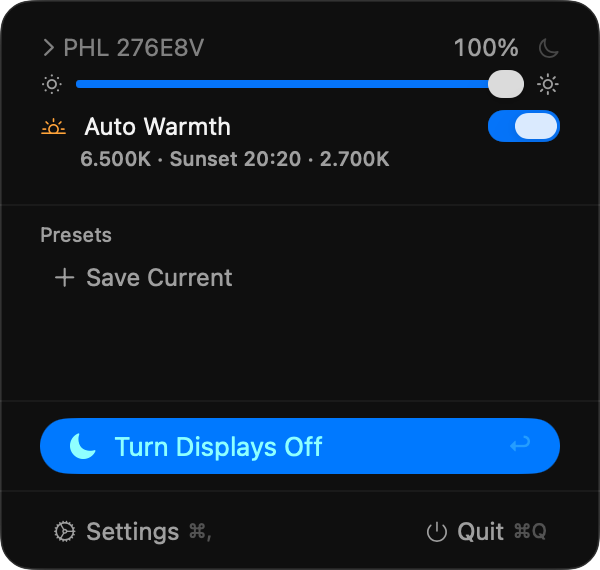
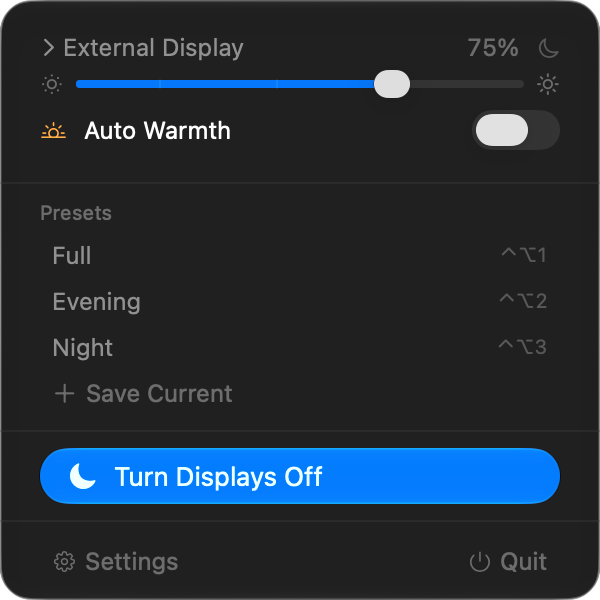
prepare 1.3.0 release and refresh website

diff --git a/documentation/index.html b/documentation/index.html
@@ -76,7 +76,7 @@
             </div>
             <figure class="product-figure">
                 <div class="product-stage">
-                    <img class="screenshot" src="assets/dimmerly-menu.png" width="600" height="570" fetchpriority="high" decoding="async" alt="Dimmerly menu bar panel showing display brightness, automatic warmth, presets, and display sleep controls">
+                    <img class="screenshot" src="assets/dimmerly-menu.png" width="600" height="600" fetchpriority="high" decoding="async" alt="Dimmerly menu bar panel showing display brightness, automatic warmth, presets, and display sleep controls">
                 </div>
             </figure>
         </section>
@@ -94,31 +94,31 @@ brew install --cask dimmerly</code></pre>
 
         <section id="whats-new" class="benefits container" aria-labelledby="whats-new-title">
             <div class="benefits-heading">
-                <h2 id="whats-new-title">What&rsquo;s new in 1.2.0</h2>
-                <p>Find your presets faster, target individual displays, and fine-tune your setup.</p>
-                <p><a class="text-link" href="https://github.com/olujicz/Dimmerly/releases/tag/v1.2.0" data-analytics-event="view_releases">Read the release notes <span aria-hidden="true">→</span></a></p>
-                <p>Upgrading? Existing per-display Shortcuts need their display reselected once. <a class="text-link" href="support.html#shortcuts-upgrade">Follow the upgrade steps <span aria-hidden="true">→</span></a></p>
+                <h2 id="whats-new-title">What&rsquo;s new in 1.3.0</h2>
+                <p>More controls where you need them, with a refreshed native macOS look.</p>
+                <p><a class="text-link" href="https://github.com/olujicz/Dimmerly/blob/main/CHANGELOG.md#130---2026-10-04" data-analytics-event="view_releases">Read the release notes <span aria-hidden="true">→</span></a></p>
+                <p>Upgrading from before 1.2.0? Existing per-display Shortcuts need their display reselected once. <a class="text-link" href="support.html#shortcuts-upgrade">Follow the upgrade steps <span aria-hidden="true">→</span></a></p>
             </div>
             <div class="benefit-list">
                 <article class="benefit">
                     <span class="benefit-number" aria-hidden="true">01</span>
-                    <h3>Find presets in Spotlight</h3>
-                    <p>Search for a saved preset by name, or use the new Open Brightness Preset action in Shortcuts to open it in the menu bar panel.</p>
+                    <h3>Add controls to Control Center</h3>
+                    <p>On macOS 26 and later, add Display Dimming, Auto Warmth, or an Apply Preset button to Control Center or your menu bar.</p>
                 </article>
                 <article class="benefit">
                     <span class="benefit-number" aria-hidden="true">02</span>
-                    <h3>Target individual display controls</h3>
-                    <p>Use Shortcuts and Spotlight to target a display&rsquo;s menu bar controls on macOS 15.4 and later.</p>
+                    <h3>A panel that feels at home</h3>
+                    <p>Native Liquid Glass on macOS 26 and later, sharper menu bar symbols, and tidier controls bring the panel closer to the rest of your Mac.</p>
                 </article>
                 <article class="benefit">
                     <span class="benefit-number" aria-hidden="true">03</span>
-                    <h3>Set familiar slider values</h3>
-                    <p>Snap markers help you select common brightness, warmth, contrast, and volume values.</p>
+                    <h3>Follow your Mac&rsquo;s appearance</h3>
+                    <p>Dark and tinted app icons and adaptive widget buttons fit your system style. A brief checkmark confirms when you apply a preset.</p>
                 </article>
                 <article class="benefit">
                     <span class="benefit-number" aria-hidden="true">04</span>
-                    <h3>See adjustments in the menu bar</h3>
-                    <p>The default sun icon reflects software brightness, warmth, and contrast adjustments. A new Sun (Split) style joins the icon choices.</p>
+                    <h3>Clearer feedback, in your language</h3>
+                    <p>VoiceOver reports display adjustment state, more display-control messages are translated, and widget actions wait for Dimmerly to respond.</p>
                 </article>
             </div>
         </section>
@@ -147,9 +147,22 @@ brew install --cask dimmerly</code></pre>
                 <article class="benefit">
                     <span class="benefit-number" aria-hidden="true">04</span>
                     <h3>Automate the routine</h3>
-                    <p>Use schedules, global shortcuts, desktop widgets, and Shortcuts actions.</p>
+                    <p>Use schedules, global shortcuts, desktop widgets, Shortcuts actions, and Control Center controls.</p>
                 </article>
             </div>
+        </section>
+
+        <section class="settings-showcase container" aria-labelledby="settings-title">
+            <div class="settings-copy">
+                <h2 id="settings-title">Set up the way your displays behave.</h2>
+                <p>Choose display sleep or dim-only mode, set an inactivity timer, and tune automatic warmth in one native Settings window.</p>
+                <p>Hardware controls work where your display and connection support DDC/CI. Otherwise, Dimmerly falls back to software brightness, as shown here.</p>
+                <a class="text-link" href="external-monitor-brightness.html">Understand hardware and software brightness <span aria-hidden="true">→</span></a>
+            </div>
+            <figure class="settings-figure">
+                <img class="settings-screenshot" src="assets/dimmerly-settings.png" width="1160" height="1500" loading="lazy" decoding="async" alt="Dimmerly Displays settings showing sleep and dim modes, inactivity dimming, automatic color temperature, and hardware-control software fallback">
+                <figcaption>Displays settings in the direct-download build.</figcaption>
+            </figure>
         </section>
 
         <section class="guides container" aria-labelledby="guides-title">

diff --git a/documentation/support.html b/documentation/support.html
@@ -105,8 +105,8 @@
             <li>If the shortcut still doesn&rsquo;t work, try changing it in Settings &rsaquo; Shortcuts to avoid conflicts with other apps.</li>
         </ol>
 
-        <h3 id="shortcuts-upgrade">A per-display Shortcuts action stops working after upgrading to 1.2.0</h3>
-        <p>Dimmerly 1.2.0 changes how Shortcuts identifies displays. Existing shortcuts with a specific display selected need that display reselected once after upgrading.</p>
+        <h3 id="shortcuts-upgrade">A per-display Shortcuts action stops working after upgrading from before 1.2.0</h3>
+        <p>Dimmerly 1.2.0 changes how Shortcuts identifies displays. Existing shortcuts with a specific display selected need that display reselected once after upgrading to 1.2.0 or later.</p>
         <ol>
             <li>Connect the display and open Dimmerly.</li>
             <li>Open the affected shortcut in the Shortcuts app.</li>
@@ -114,6 +114,15 @@
             <li>Run the shortcut to confirm it controls the intended display.</li>
         </ol>
         <p>The new identities prevent a shortcut from targeting another monitor when macOS reuses a display ID.</p>
+
+        <h3>Control Center&rsquo;s Display Dimming toggle turns off again</h3>
+        <p>The toggle shows whether Dimmerly is blanking a display. In the direct-download build&rsquo;s Sleep &amp; Lock mode, macOS puts displays to sleep and wakes them on input; the toggle returns to off because Dimmerly has no blanking session to clear. Choose Dim Only in Settings &rsaquo; Displays if you want the toggle to stay on while displays are blanked.</p>
+
+        <h3>A saved App Store shortcut no longer works in 1.3.0</h3>
+        <p>App Store global shortcuts now require at least two modifiers, including Control or Command. Previously saved shortcuts that do not meet this rule are not registered. Reassign them in Settings; for example, use Control&ndash;Option&ndash;1 instead of Command&ndash;1 for a preset. The direct-download build keeps its existing shortcut requirements.</p>
+
+        <h3>A widget or Control Center action does not complete</h3>
+        <p>Dimmerly opens when needed and waits for the app to acknowledge the action. If an error appears, open Dimmerly, check the selected preset still exists, and try again. On macOS 26 and later, add Dimmerly&rsquo;s Dim Displays, Display Dimming, Auto Warmth, and Apply Preset controls in Control Center; Apply Preset asks you to choose a saved preset.</p>
 
         <h3>Brightness slider has no effect</h3>
         <ul>

diff --git a/documentation/multi-monitor-control.html b/documentation/multi-monitor-control.html
@@ -102,8 +102,9 @@
         <section class="guide-section" aria-labelledby="presets-title">
             <h2 id="presets-title">Save routines with presets and schedules</h2>
             <p>Presets save a complete display setup, including brightness, warmth, and contrast for each display. Apply them from the menu bar, a widget, Shortcuts, a schedule, or an optional per-preset keyboard shortcut.</p>
+            <p>On macOS 26 and later, add Display Dimming, Auto Warmth, and Apply Preset controls to Control Center or the menu bar. Choose a saved preset when configuring Apply Preset. The Display Dimming toggle reflects Dimmerly blanking, rather than macOS display sleep.</p>
             <p>Starting with Dimmerly 1.2.0, you can find a saved preset by name in Spotlight. The <strong>Open Brightness Preset</strong> Shortcuts action opens it in the menu bar panel; use <strong>Apply Brightness Preset</strong> to apply its saved display settings. Individual menu bar display controls can also be targeted from Shortcuts and Spotlight on macOS 15.4 and later.</p>
-            <p>If you upgrade to 1.2.0 with existing per-display shortcuts, <a href="support.html#shortcuts-upgrade">reselect their displays once in the Shortcuts app</a>.</p>
+            <p>If you upgrade from before 1.2.0 with existing per-display shortcuts, <a href="support.html#shortcuts-upgrade">reselect their displays once in the Shortcuts app</a>.</p>
             <p>Schedules can run at a fixed time, sunrise, sunset, or with an offset from sunrise or sunset. You can use your current location for the calculation or enter coordinates manually.</p>
             <div class="note">
                 <p><strong>Keep the setup local.</strong> Dimmerly stores presets and schedules on your Mac. The app does not sync them between Macs and does not use analytics or tracking.</p>

diff --git a/documentation/site.css b/documentation/site.css
@@ -337,6 +337,48 @@ p { text-wrap: pretty; }
     filter: drop-shadow(0 18px 26px var(--panel-shadow));
 }
 
+/* Native 2x Settings capture, displayed at no more than its 580-point width. */
+.settings-showcase {
+    display: grid;
+    grid-template-columns: minmax(0, 0.8fr) minmax(0, 1.2fr);
+    gap: 64px;
+    align-items: center;
+    padding-top: 76px;
+    padding-bottom: 76px;
+    border-top: 1px solid var(--line);
+}
+
+.settings-copy p {
+    color: var(--muted);
+    line-height: 1.65;
+}
+
+.settings-figure { margin: 0; }
+
+.settings-screenshot {
+    display: block;
+    width: min(100%, 580px);
+    height: auto;
+    margin-inline: auto;
+    filter: drop-shadow(0 18px 26px var(--panel-shadow));
+}
+
+.settings-figure figcaption {
+    margin-top: 18px;
+    color: var(--muted);
+    font-size: 13px;
+    text-align: center;
+}
+
+@media (max-width: 700px) {
+    .settings-showcase {
+        grid-template-columns: minmax(0, 1fr);
+        gap: 32px;
+        padding-top: 48px;
+        padding-bottom: 48px;
+    }
+}
+
 .install {
     display: grid;
     grid-template-columns: minmax(220px, 0.8fr) minmax(0, 1.2fr);

diff --git a/documentation/RELEASE.md b/documentation/RELEASE.md
@@ -132,6 +132,13 @@ Do not mix feature work into the release-prep PR. Merge it only after CI passes 
 
 ## Release Candidate Build
 
+For **1.3.0 only**, the maintainer has explicitly waived the separate manual
+release-candidate run. Prepare and merge the release changes, then use the
+tag-triggered workflow to build the draft release. Signing, notarization,
+checksum verification, Gatekeeper assessment, clean installation, and final
+manual QA still apply before publication. Other releases keep the normal
+candidate procedure below.
+
 Use the manual workflow first to prove signing, notarization, and packaging before creating a public tag. Run it from the release-prep commit after it is on `main`:
 
 The Release workflow uses GitHub's `xcode-27` Apple silicon runner and explicitly selects released Xcode 27.0 (`27A266a`) for both the quality gate and signed DMG build. The archive uses manual signing with the imported Developer ID Application identity so clean runners do not create disposable Apple Development certificates. Keep these settings aligned with `.github/workflows/release.yml` when upgrading the release environment.
@@ -143,7 +150,7 @@ The Release workflow uses GitHub's `xcode-27` Apple silicon runner and explicitl
 | CI `test` and `build-appstore` | `xcode-27` | 27.0 (`27A266a`, released) |
 | Release quality gate and DMG build | `xcode-27` | 27.0 (`27A266a`, released) |
 
-The runner image remains a GitHub public preview, but the selected Xcode is a released toolchain, not a beta. CI sets `DEVELOPER_DIR` and Release selects `/Applications/Xcode_27.0.app/Contents/Developer`. Both invoke `.github/scripts/verify-xcode.sh`, which rejects any other Xcode version or build, an unrecognized or older Swift compiler, and a macOS SDK older than 27.0. The scope job tests this gate on every CI run.
+The runner image remains a GitHub public preview, but the selected Xcode is a released toolchain, not a beta. CI sets `DEVELOPER_DIR` and Release selects `/Applications/Xcode_27.0.app/Contents/Developer`. The Release quality gate runs both direct-distribution and App Store test suites and the App Store smoke build. Both workflows invoke `.github/scripts/verify-xcode.sh`, which rejects any other Xcode version or build, an unrecognized or older Swift compiler, and a macOS SDK older than 27.0. The scope job tests this gate on every CI run.
 
 Apple lists [Xcode 27 build 27A266a as released on September 14, 2026](https://developer.apple.com/news/releases/). GitHub documents the installed toolchains in its [Xcode 27 runner manifest](https://github.com/actions/runner-images/blob/main/images/macos/xcode-27-arm64-Readme.md). Before changing the pin, verify the replacement is a released Xcode build and update the workflows, gate, tests, and this runbook together.
 
@@ -171,7 +178,7 @@ codesign --verify --deep --strict --verbose=2 /Applications/Dimmerly.app
 
 ## Tag And Draft Release
 
-After the release candidate passes:
+After the release candidate passes (or under the explicit 1.3.0 exception above):
 
 ```bash
 git status --short
@@ -191,7 +198,9 @@ The draft must remain unpublished until final QA is complete.
 
 ## Final QA
 
-Download the DMG from the draft release and repeat the clean install checks. Also verify:
+Download the DMG from the draft release and perform the clean install, checksum,
+Gatekeeper, and signature checks listed above, even when a separate candidate
+was waived. Also verify:
 
 - the draft release notes match `CHANGELOG.md`
 - the DMG filename and checksum contain the intended version
@@ -287,4 +296,4 @@ For urgent regressions:
 5. Add a `CHANGELOG.md` entry under the patch version.
 6. Follow the same release candidate, tag, draft release, final QA, and publish steps.
 
-Skipping the release candidate workflow is only acceptable when the existing release is unsafe to keep available and the fix has already passed local signing/notarization checks.
+Outside the explicit 1.3.0 exception above, skipping the release candidate workflow is only acceptable when the existing release is unsafe to keep available and the fix has already passed local signing/notarization checks.

diff --git a/README.md b/README.md
@@ -25,6 +25,15 @@ brew install --cask dimmerly
 
 ![Dimmerly menu bar panel on macOS](images/image1.png)
 
+## New in 1.3.0
+
+- Display Dimming, Auto Warmth, and configurable Apply Preset controls in Control Center and the menu bar on macOS 26 and later
+- Native Liquid Glass panel and dark and tinted app icons on macOS 26 and later, plus sharper menu bar symbols
+- Widgets that follow the system appearance, clearer preset feedback, and more VoiceOver and localization coverage
+- Reliable widget action delivery and permission-free global shortcuts in the App Store build
+
+See [the 1.3.0 changelog](CHANGELOG.md#130---2026-10-04) for the full release notes.
+
 ## Why Dimmerly?
 
 - Control multiple displays from a single menu bar panel
@@ -39,7 +48,7 @@ brew install --cask dimmerly
 - Global keyboard shortcuts for dimming and presets
 - Schedules based on a fixed time, sunrise, or sunset
 - Desktop widgets and Shortcuts actions
-- Control Center dimming on macOS 26 and later
+- Control Center and menu bar controls for dimming, Auto Warmth, and applying a chosen preset on macOS 26 and later
 - Optional automatic color temperature changes
 - Optional auto-dim after inactivity
 - VoiceOver labels and Reduce Motion support
@@ -117,7 +126,7 @@ DDC/CI. Otherwise the app uses software dimming for that display.
 
 Presets save the current display setup: brightness, warmth, and contrast for
 each display. They can be applied from the menu bar, widgets, Shortcuts,
-schedules, or per-preset keyboard shortcuts.
+schedules, Control Center, or per-preset keyboard shortcuts.
 
 Schedules can run at a fixed time, at sunrise, at sunset, or with an offset
 from sunrise or sunset. Sunrise and sunset schedules can use your current
@@ -144,8 +153,14 @@ sleeping or blanking displays depending on the build, toggling dimming, and
 applying presets.
 
 It also includes small and medium desktop widgets for quick dimming and preset
-access. On macOS 26 and later, Dimmerly also provides a Control Center button
-for quick dimming.
+access. On macOS 26 and later, you can add Dimmerly controls to Control Center
+or the menu bar: **Dim Displays**, **Display Dimming**, **Auto Warmth**, and
+**Apply Preset**. Choose a saved preset when configuring Apply Preset.
+
+Display Dimming stays on while Dimmerly is blanking any display. Switching it
+off clears that blanking. In the direct-download build's Sleep & Lock mode,
+macOS handles display sleep and wake; the toggle returns to off because there
+is no Dimmerly blanking session to clear.
 
 Starting with Dimmerly 1.2.0, saved presets can be found by name in Spotlight.
 The **Open Brightness Preset** Shortcuts action opens a preset in the menu bar
@@ -153,13 +168,22 @@ panel. Use **Apply Brightness Preset** to apply its saved display settings.
 Individual menu bar display controls can also be targeted from Shortcuts and
 Spotlight on macOS 15.4 and later.
 
-### Upgrading to 1.2.0
+### Upgrading from before 1.2.0
 
 Existing Shortcuts with a specific display selected need that display reselected
-once after upgrading. Open each affected shortcut in the Shortcuts app, select
-the connected display again in its Dimmerly action, and save the shortcut.
+once after upgrading to 1.2.0 or later. Open each affected shortcut in the
+Shortcuts app, select the connected display again in its Dimmerly action, and
+save the shortcut.
 The new display identities prevent a shortcut from targeting another monitor
 when macOS reuses a numeric display ID.
+
+### App Store shortcut changes in 1.3.0
+
+App Store global shortcuts need at least two modifiers, including Control or
+Command. Previously saved shortcuts that do not meet this rule are not registered;
+reassign them in Settings. For example, use Control–Option–1 for a preset
+instead of Command–1. Settings explains invalid or unavailable bindings.
+The direct-download shortcut requirements are unchanged.
 
 ## Known limitations
 

diff --git a/CHANGELOG.md b/CHANGELOG.md
@@ -7,6 +7,8 @@ Semantic Versioning.
 
 ## [Unreleased]
 
+## [1.3.0] - 2026-10-04
+
 ### Added
 - On macOS 26 and later, Control Center and the menu bar offer three more Dimmerly controls: a Display Dimming toggle that stays on while Dimmerly is blanking a display and wakes it when switched off, an Auto Warmth toggle, and an Apply Preset button that applies a preset you choose.
 - VoiceOver now reports whether Dimmerly is currently adjusting your displays when it reads the menu bar icon.
@@ -20,6 +22,9 @@ Semantic Versioning.
 - The desktop widget's buttons now follow the system's tinted and clear widget styles instead of always showing blue and orange fills.
 
 ### Fixed
+- Widget and Control Center actions now open Dimmerly when needed and wait for acknowledgement instead of silently losing taps during startup. Expired requests no longer run on a later launch.
+- App Store global shortcuts now work without Accessibility permission. Main and preset shortcuts require at least two modifiers, including Control or Command, to avoid taking over common shortcuts in other apps. Previously saved shortcuts that do not meet this rule must be reassigned in Settings.
+- Shortcut conflict messages stay visible after recording ends. App Store shortcuts are temporarily released during recording and restored afterwards, so an existing binding can be recorded again.
 - Hardware control status, DDC/CI error messages, the warmth slider labels, and several VoiceOver labels and hints now appear in every supported language instead of always in English.
 
 ## [1.2.0] - 2026-09-29

diff --git a/documentation/REPOSITORY_SETTINGS.md b/documentation/REPOSITORY_SETTINGS.md
@@ -67,6 +67,7 @@ GitHub Pages must use **GitHub Actions** as its publishing source. The
 - `documentation/robots.txt`
 - `documentation/sitemap.xml`
 - `images/image1.png`, published as `assets/dimmerly-menu.png`
+- `images/image2.png`, published as `assets/dimmerly-settings.png`
 - `images/github-social-preview.jpg`, published as
   `assets/dimmerly-social-preview.jpg`
 - `IconComposerLayers/AppIcon-IconComposer/rendered/icon_128x128@2x.png`, published
